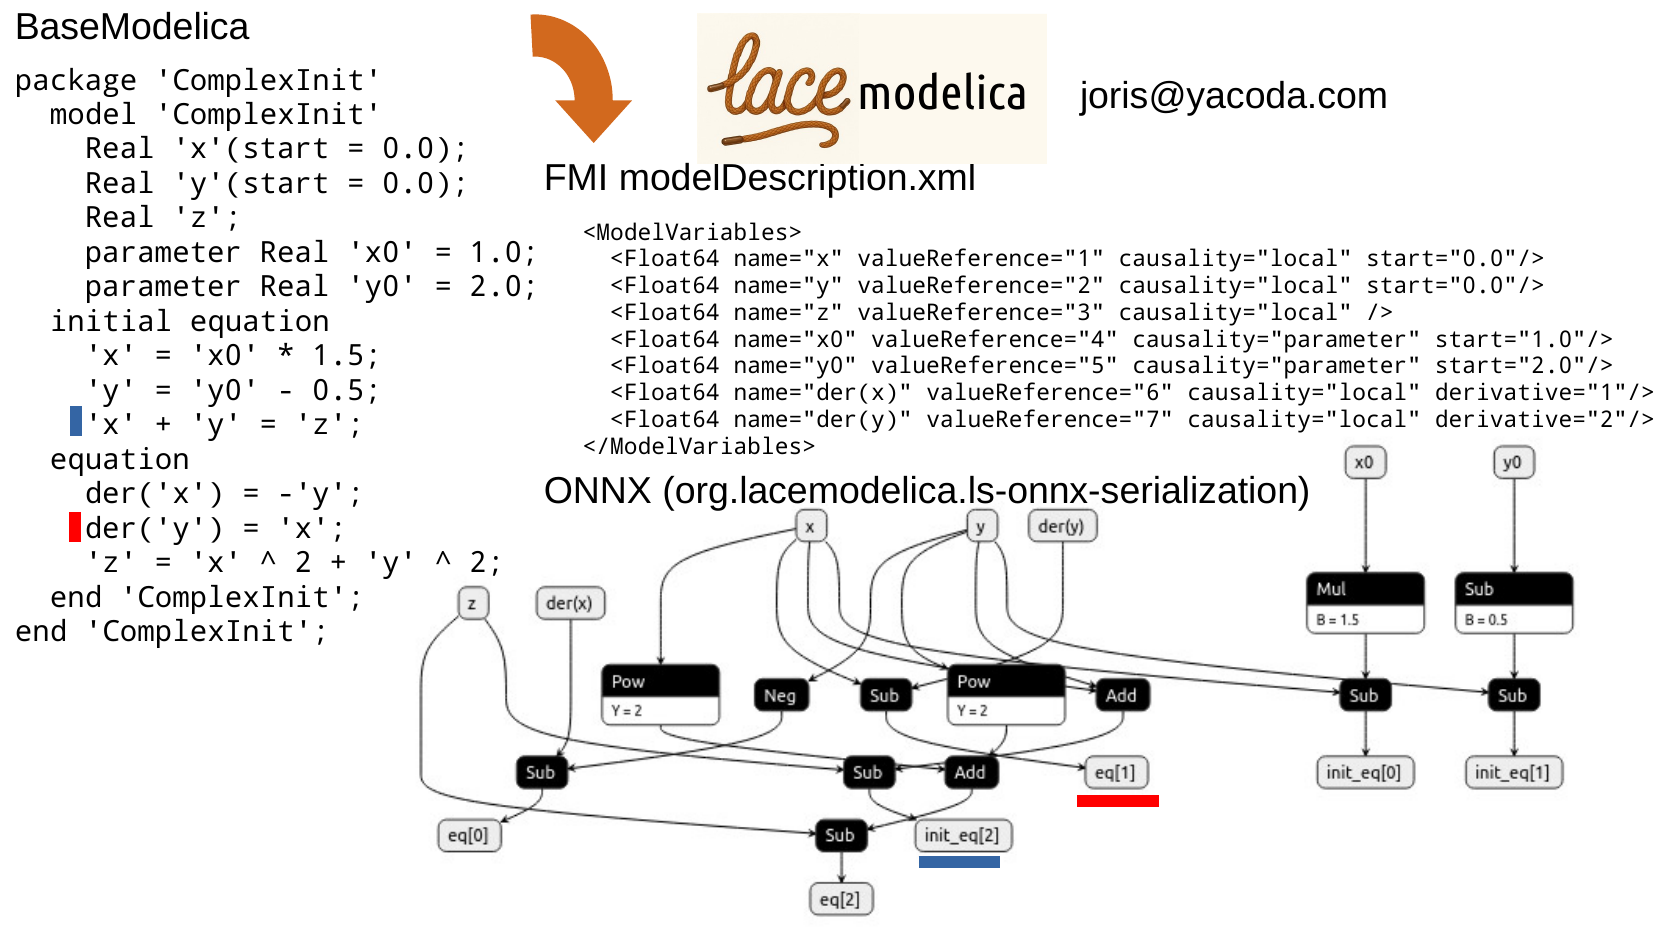
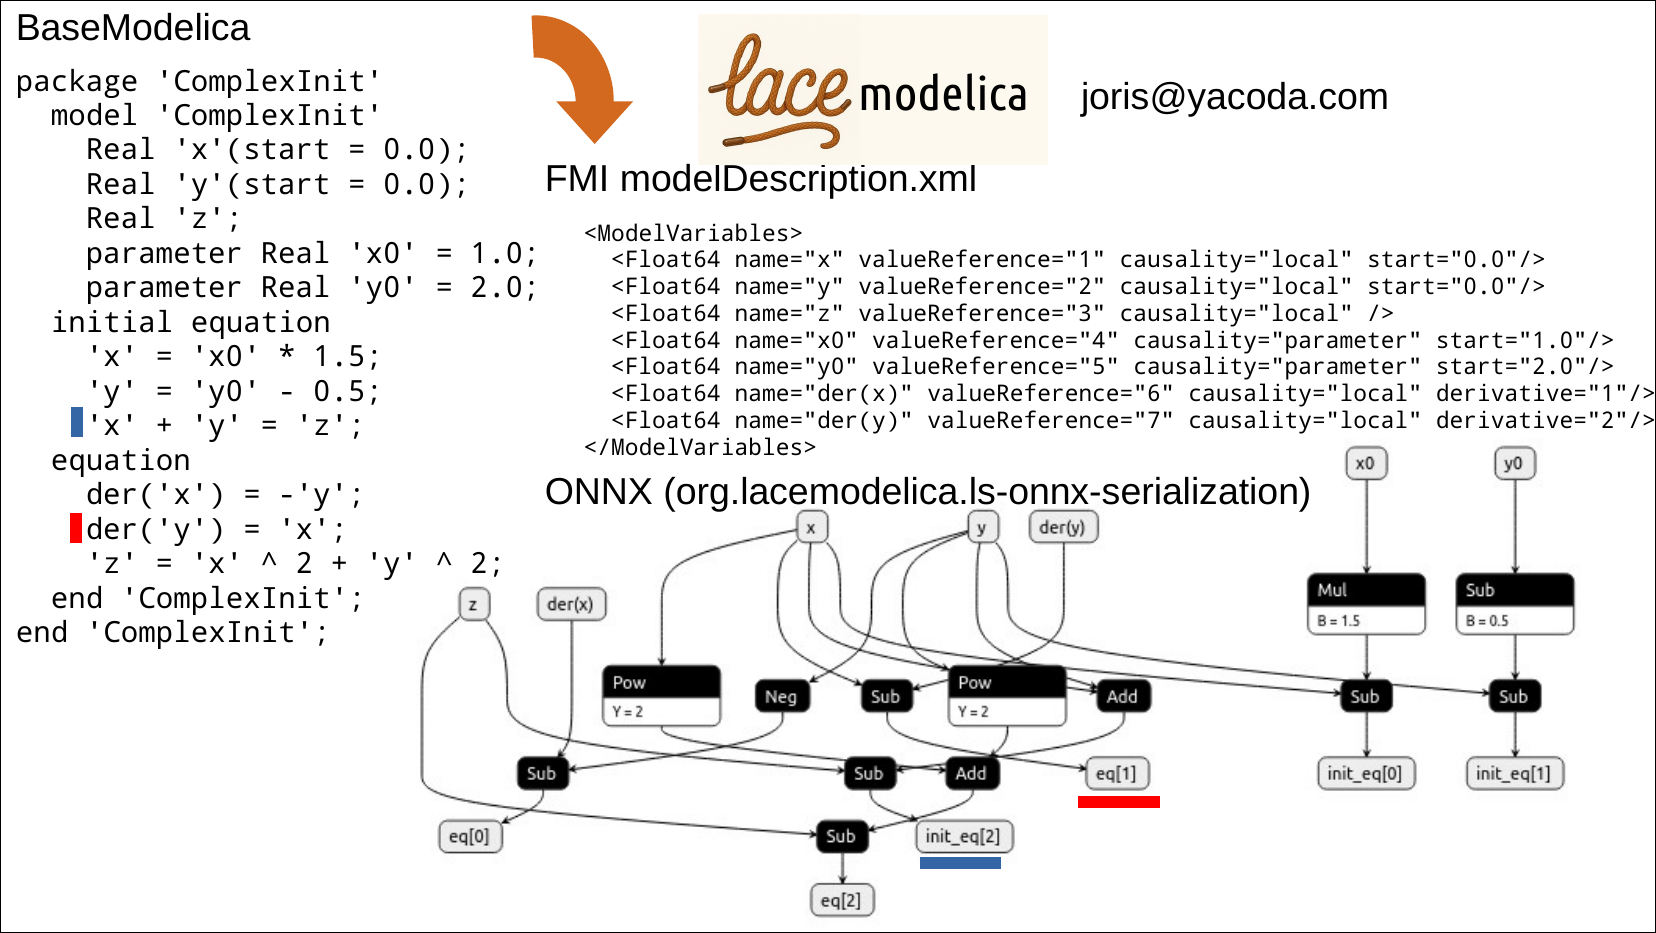
Add border to slides and intro heading
🤖 Generated with [Claude Code](https://claude.com/claude-code)

diff --git a/README.md b/README.md
@@ -6,6 +6,8 @@ A C++17 parser and compiler for BaseModelica that generates Model-Exchange Funct
 
 [![License: MIT](https://img.shields.io/badge/License-MIT-yellow.svg)](https://opensource.org/licenses/MIT)
 
+### Idea in two slides
+
 ![Slide 1 - BaseModelica to FMU/ONNX conversion](docs/slide-1.png)
 
 ![Slide 2 - Advanced features with functions and loops](docs/slide-2.png)
